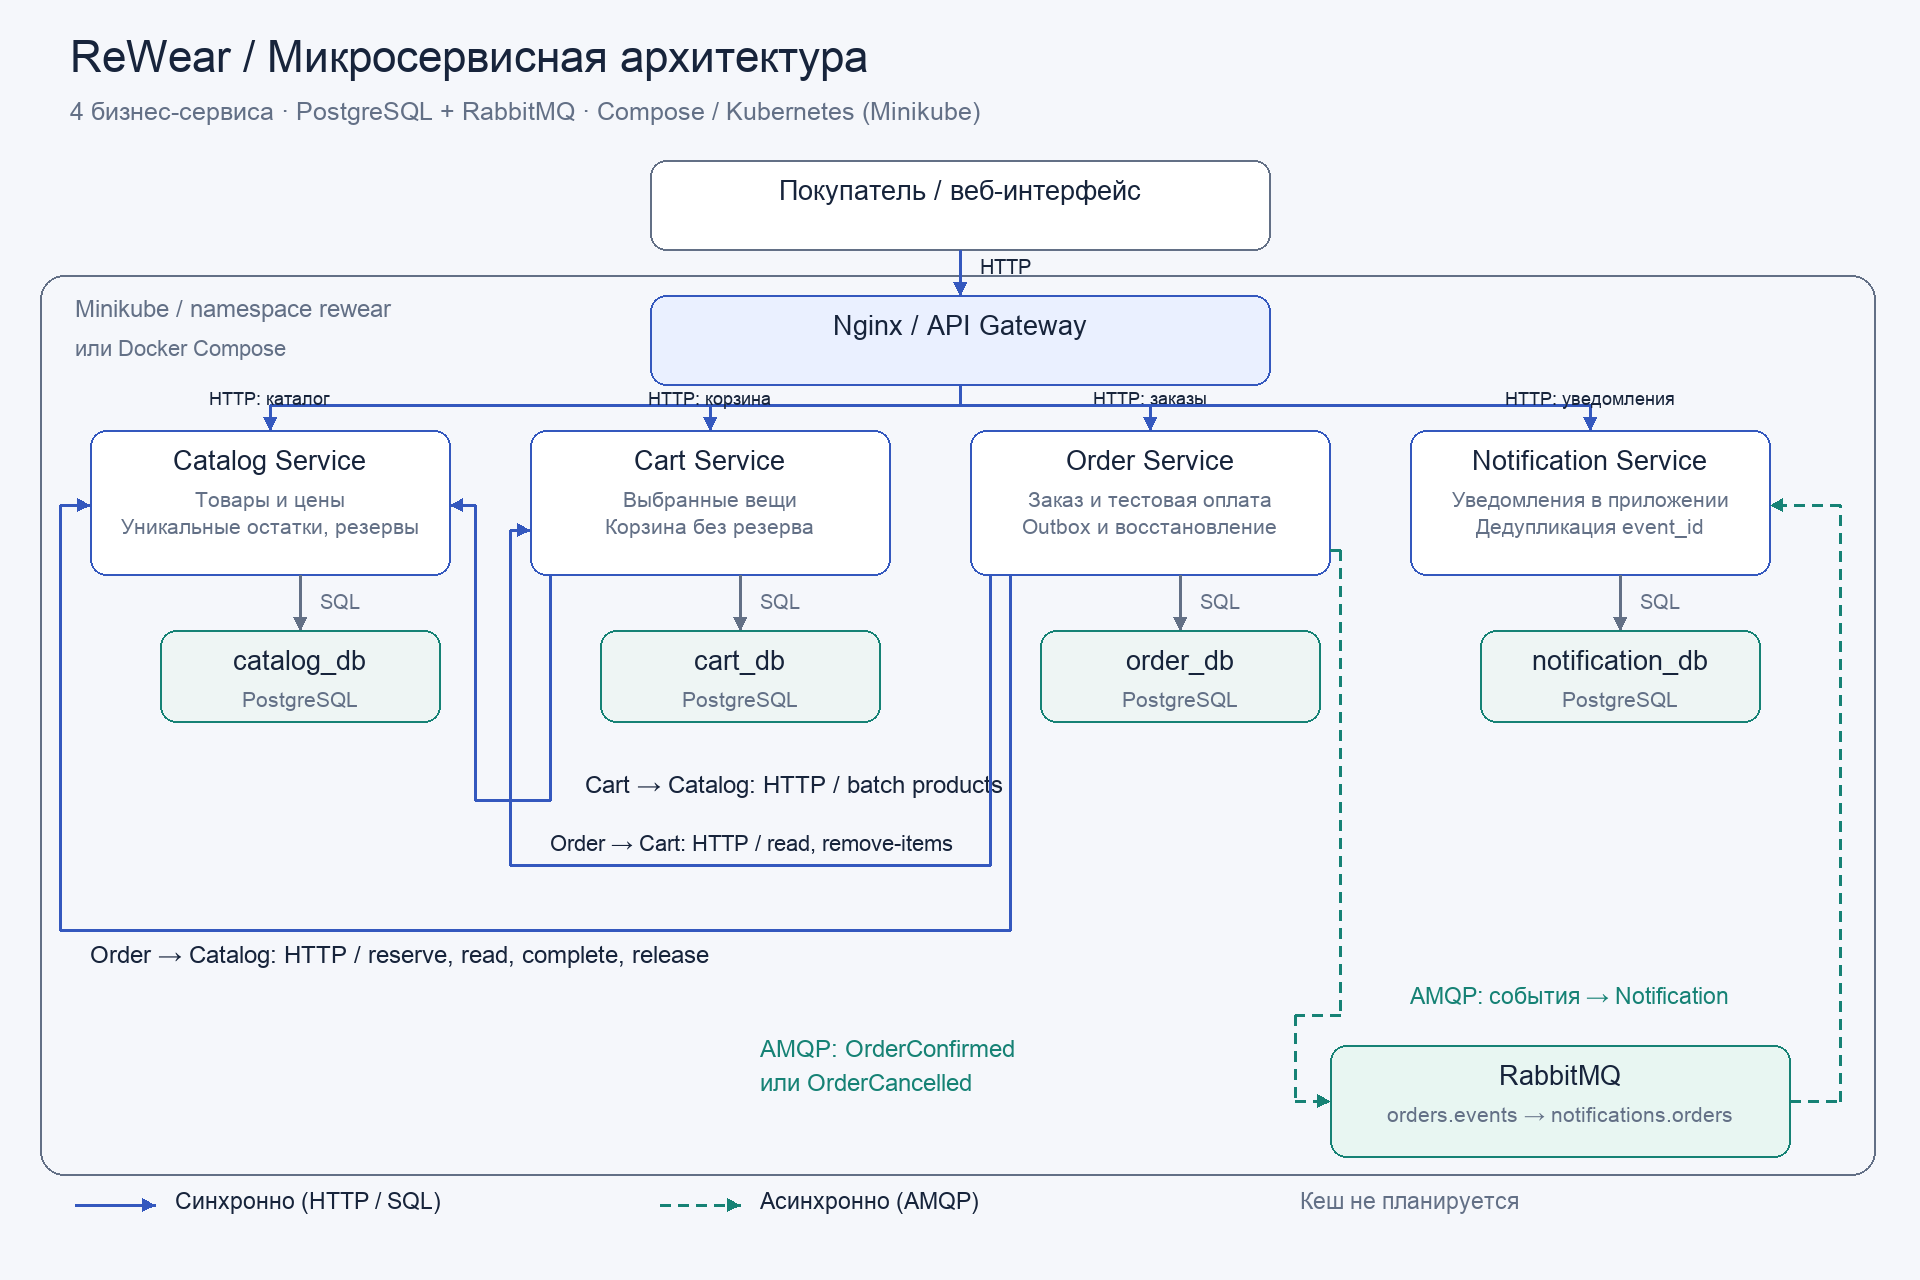
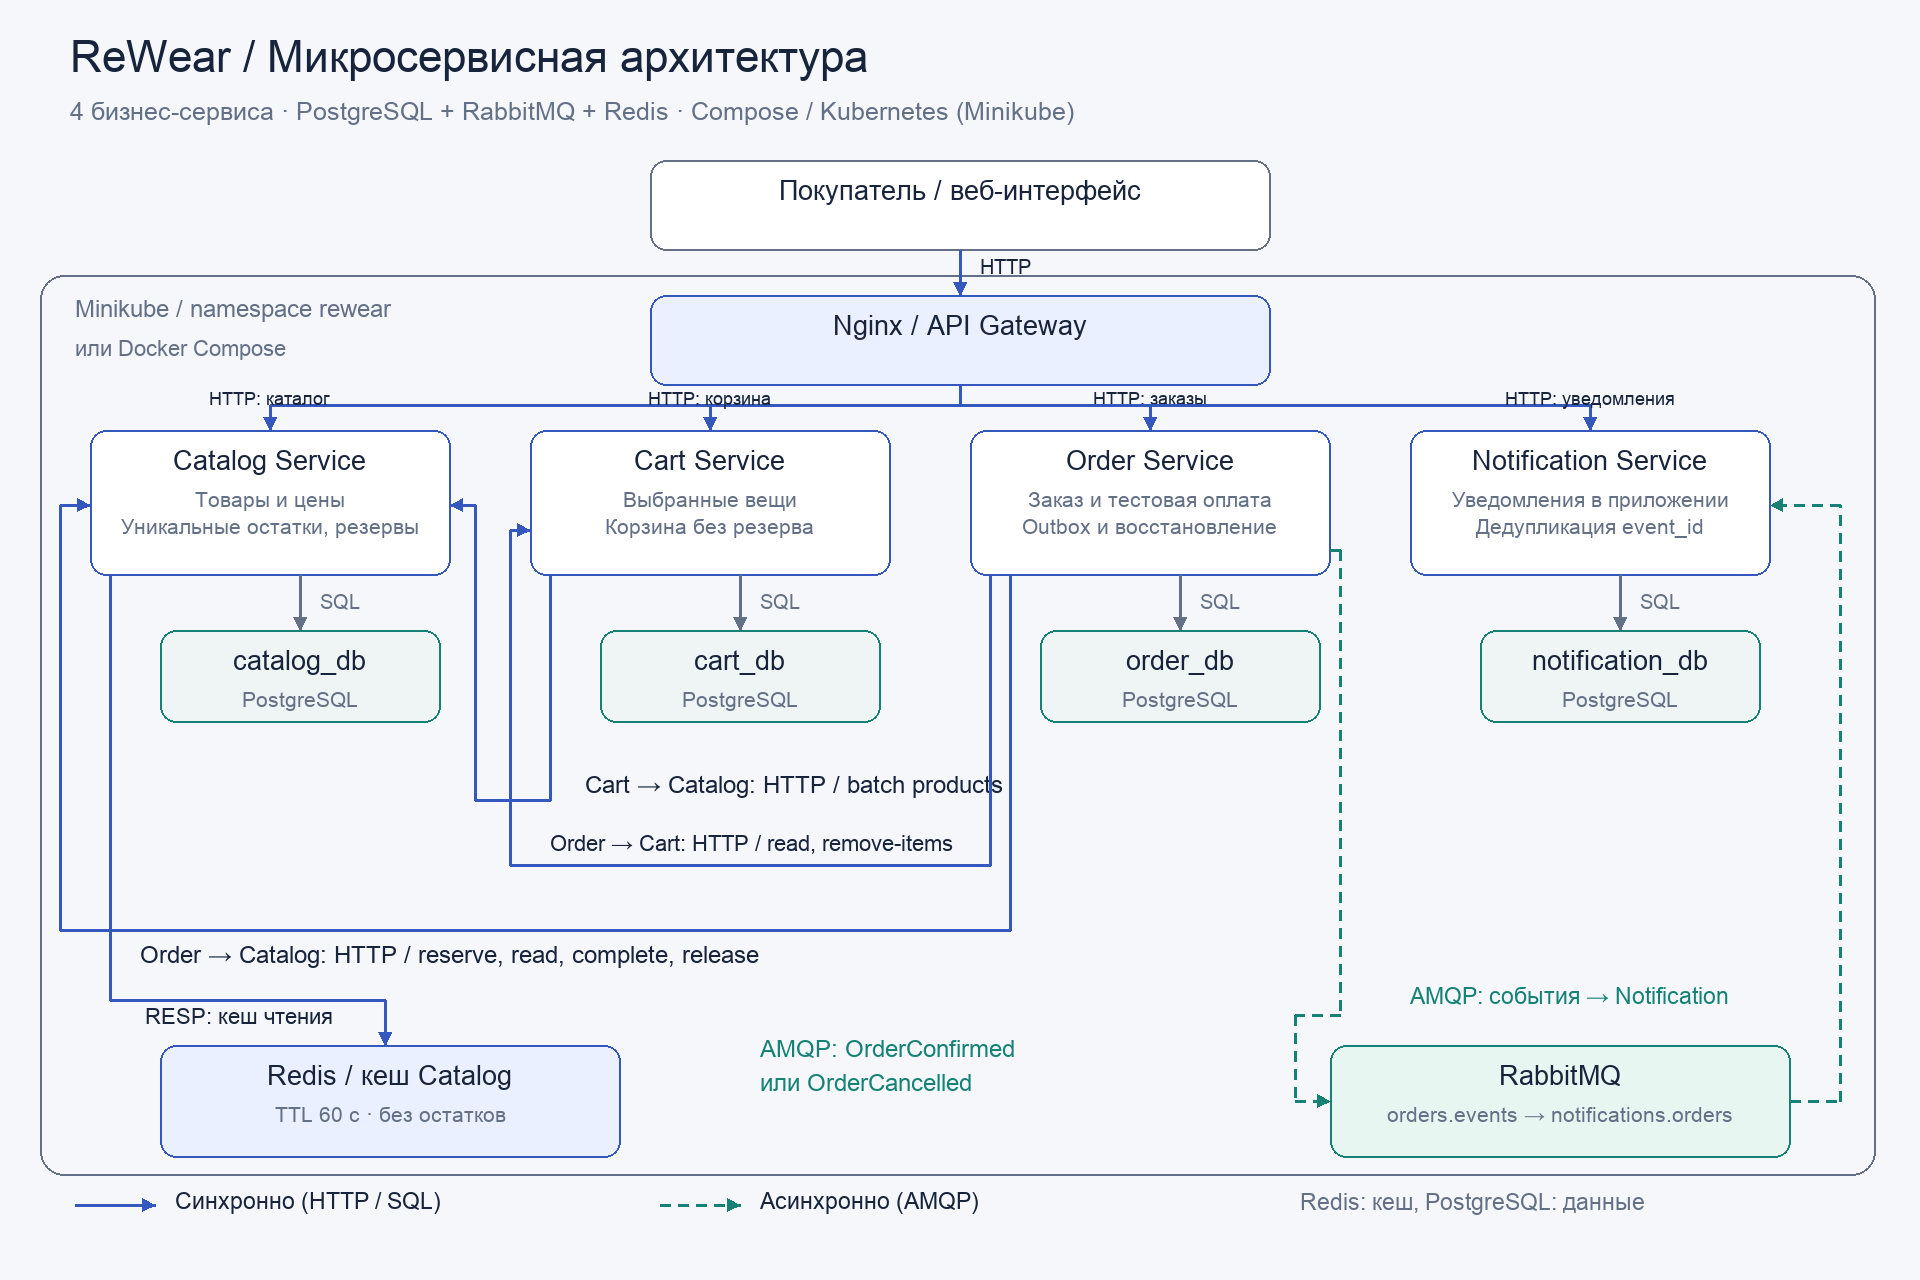
docs: add Redis catalog caching and failure fallback

diff --git a/scripts/render_diagram.py b/scripts/render_diagram.py
@@ -47,7 +47,7 @@ svg.append(f'<rect x="40" y="275" width="1835" height="900" rx="24" fill="none" 
 text(75,300,'Minikube / namespace rewear',24,GREY)
 text(75,340,'или Docker Compose',22,GREY)
 text(70,40,'ReWear / Микросервисная архитектура',44)
-text(70,102,'4 бизнес-сервиса · PostgreSQL + RabbitMQ · Compose / Kubernetes (Minikube)',25,GREY)
+text(70,102,'4 бизнес-сервиса · PostgreSQL + RabbitMQ + Redis · Compose / Kubernetes (Minikube)',25,GREY)
 box(650,160,620,90,'Покупатель / веб-интерфейс',(),border=GREY)
 box(650,295,620,90,'Nginx / API Gateway',(),fill='#eaf0ff')
 line([(960,250),(960,295)]); text(980,259,'HTTP',20)
@@ -66,7 +66,10 @@ text(585,775,'Cart → Catalog: HTTP / batch products',24)
 line([(990,575),(990,865),(510,865),(510,530),(530,530)])
 text(550,835,'Order → Cart: HTTP / read, remove-items',22)
 line([(1010,575),(1010,930),(60,930),(60,505),(90,505)])
-text(90,945,'Order → Catalog: HTTP / reserve, read, complete, release',24)
+text(140,945,'Order → Catalog: HTTP / reserve, read, complete, release',24)
+box(160,1045,460,112,'Redis / кеш Catalog',['TTL 60 с · без остатков'],fill='#eaf0ff')
+line([(110,575),(110,1000),(385,1000),(385,1045)])
+text(145,1008,'RESP: кеш чтения',22)
 box(1330,1045,460,112,'RabbitMQ',['orders.events → notifications.orders'],fill='#e8f6f2',border=GREEN)
 line([(1330,550),(1340,550),(1340,1015),(1295,1015),(1295,1101),(1330,1101)],GREEN,True)
 text(760,1040,'AMQP: OrderConfirmed',24,GREEN)
@@ -75,7 +78,7 @@ line([(1790,1101),(1840,1101),(1840,505),(1770,505)],GREEN,True)
 text(1410,986,'AMQP: события → Notification',23,GREEN)
 line([(75,1205),(155,1205)],BLUE); text(175,1192,'Синхронно (HTTP / SQL)',23)
 line([(660,1205),(740,1205)],GREEN,True); text(760,1192,'Асинхронно (AMQP)',23)
-text(1300,1192,'Кеш не планируется',23,GREY)
+text(1300,1192,'Redis: кеш, PostgreSQL: данные',23,GREY)
 OUT.mkdir(parents=True, exist_ok=True)
 svg.append('</svg>')
 (OUT/'architecture.svg').write_text('\n'.join(svg),encoding='utf-8')

diff --git a/docs/implementation-plan.md b/docs/implementation-plan.md
@@ -4,13 +4,13 @@
 
 ## Этапы
 
-1. Создать Catalog/Cart/Order/Notification на C# / ASP.NET Core, Dockerfile и миграции; четыре PostgreSQL и RabbitMQ.
-2. Реализовать Catalog и seed 20–30 вещей: фильтры, карточка, атомарные reserve/read/complete/release.
+1. Создать Catalog/Cart/Order/Notification на C# / ASP.NET Core, Dockerfile и миграции; четыре PostgreSQL, RabbitMQ и Redis.
+2. Реализовать Catalog и seed 20–30 вещей: фильтры, карточка, атомарные reserve/read/complete/release; Redis cache-aside для описаний/выборок, TTL 60 с, очистка после seed, fallback на БД.
 3. Реализовать корзину: максимум 10 вещей, без дубликатов, данные из Catalog, безопасная очистка купленных строк.
 4. Реализовать Order: Idempotency-Key, снимок корзины/цен, симулятор оплаты, сохранённые фазы и восстановление.
 5. Подключить outbox и RabbitMQ consumer: confirms, ACK после записи, event_id и dead-letter queue.
 6. Добавить интерфейс и Nginx: каталог, карточка, корзина/оформление, заказ и уведомления; при 202 — опрос статуса.
-7. Собрать Compose для разработки; затем `infra/k8s` для Minikube: namespace, Deployments, StatefulSets, Services, PVC, ConfigMap/Secret, probes и ресурсы — согласно §2.4 отчёта. Использовать те же образы; credentials создавать локально, gateway открывать через port-forward.
+7. Собрать Compose для разработки; затем `infra/k8s` для Minikube: namespace, Deployments (включая Redis без PVC), StatefulSets, Services, PVC, ConfigMap/Secret, probes и ресурсы — согласно §2.4 отчёта. Использовать те же образы; credentials создавать локально, gateway открывать через port-forward.
 8. Проверить оба варианта запуска и задокументировать фактические команды. Kubernetes не заменяет восстановление бизнес-процесса внутри Order.
 
 ## Приёмка
@@ -18,6 +18,7 @@
 - Успех → CONFIRMED, вещи SOLD, одно уведомление, купленные строки удалены.
 - DECLINED → CANCELLED, резерв освобождён, корзина сохранена.
 - Конкуренция двух покупателей / частично недоступный набор → нет двойной продажи и частичного резерва.
+- Повторное чтение каталога попадает в кеш; TTL/очистка обновляют копии; при отказе Redis работает fallback, остатки и reserve всегда берутся из PostgreSQL.
 - Повтор ключа, команды и события → без дубликатов; другое тело с тем же ключом → 409.
 - Потеря ответа / рестарт Order после SOLD → процесс безопасно завершается; запоздавший reserve не обходит RELEASED.
 - Сбой RabbitMQ/Notification/Cart → результат покупки сохранён, отложенная работа продолжается после возврата.

diff --git a/docs/compliance.md b/docs/compliance.md
@@ -14,8 +14,9 @@
 | Strong/eventual consistency с причинами | §2.1 |
 | Sync/async с причинами | §2.2, §5.1 |
 | Быстрые <100 мс и фоновые >1 с | §2.3: цели p95 и профиль нагрузки |
+| Кеш: назначение, TTL, инвалидирование и fallback | §2.5: Redis только для чтения каталога |
 | Нагрузка, узкие места, масштабирование | §2.3 и описания сервисов §3.1–3.4 |
-| Диаграмма: сервисы, БД/типы, broker, gateway, стрелки/подписи | §3: встроенный PNG, исходники SVG/Mermaid; кеш не планируется |
+| Диаграмма: сервисы, БД/типы, broker, gateway, стрелки/подписи | §3: встроенный PNG, исходники SVG/Mermaid; Redis и его связь с Catalog показаны на схеме |
 | Сущности: 3–7 полей, связи, ownership | §4.1 |
 | 5–7 межсервисных endpoints: method/path, caller, request/response | §4.2: ровно семь; клиентский API отдельно в §4.3 |
 | Декомпозиция, альтернативы, выбор sync/async | §5.1 |

diff --git a/README.md b/README.md
@@ -1,6 +1,6 @@
 # ReWear — магазин винтажной одежды
 
-Лабораторная №6: проектирование микросервисной архитектуры. Четыре сервиса: Catalog, Cart, Order и Notification; отдельные PostgreSQL, HTTP и RabbitMQ. Order — бизнес-оркестратор покупки.
+Лабораторная №6: проектирование микросервисной архитектуры. Четыре сервиса: Catalog, Cart, Order и Notification; отдельные PostgreSQL, HTTP, RabbitMQ и Redis для кеша каталога. Order — бизнес-оркестратор покупки.
 
 ## Материалы
 
